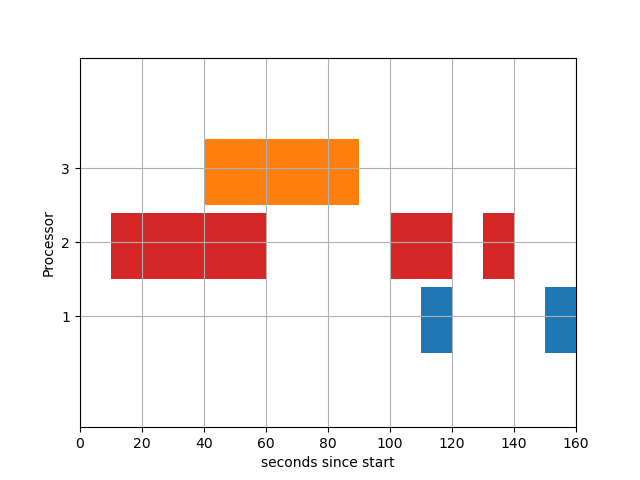
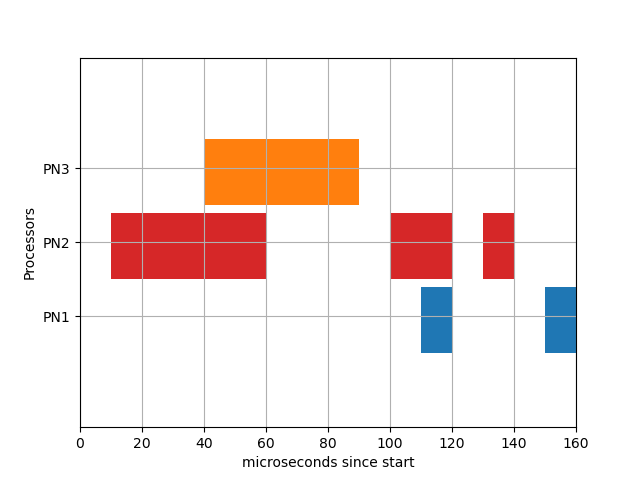
Add almost basic sample run

diff --git a/main.py b/main.py
@@ -1,34 +1,46 @@
 import sys
+import statistics
+from src.Processor import Processor
+from src.Task import Task
 import src.Visualization
 from time import process_time_ns
+from src.playground import playground
 from src.Graph import Graph
-#import src.playground as pg
-from src.IO import read_data, write_data
+from src.IO import read_data, write_data, listOfProcessors
 
-def calculateTime(begin, end):
+
+def calculate_time(begin, end):
   elapsed = end - begin
-  time_milliseconds = (elapsed) * 0.001
+  time_milliseconds = int((elapsed) * 0.001)
   time_microseconds = (elapsed) 
   print(f"time: { time_milliseconds }ms - milliseconds | { time_microseconds }μs - microseconds")
   return (time_microseconds, time_microseconds)
 
-def schedule_task(task):
-  pass
+def calculate_standard_deviation(ListOfProcessors, makespan):
+  listOfProcExeTime: list[Processor] = [proc.exeTime/makespan for proc in ListOfProcessors]
+  return statistics.pstdev(listOfProcExeTime)
+  
+def schedule_task(task: Task):
+  global listOfProcessors
+  print(task)
 
-def schedule_graph(graph):
-  pass
+def schedule_graph(dag: Graph):
+  topologicalOrder = dag.topological_sort()
+  for taskID in topologicalOrder:
+    schedule_task(dag.taskList[taskID])
 
 def scheduler(listOfDags: list[Graph]):
-  pass
+  for dag in listOfDags:
+    schedule_graph(dag)
 
 def run():
   listOfDags: list[Graph] = read_data("./src/sample.json") # returns a list of graphs
-  print(listOfDags)
   begin = process_time_ns()
   scheduler(listOfDags)
   end = process_time_ns()
-  time_results = calculateTime(begin, end) # returns a tuple of time results as (microseconds, nanoseconds)
+  time_results = calculate_time(begin, end) # returns a tuple of time results as (microseconds, nanoseconds)
   write_data("./src/output/sample.csv", [], 0, 0, 0, time_results[0])
   
 if __name__ == "__main__":
+  #playground()
   run()

diff --git a/src/playground.py b/src/playground.py
@@ -1,25 +1,26 @@
 from .Graph import Graph
 import random
 
-graph = Graph()
-n = 5
+def playground():
+  graph = Graph(0,0,0,0)
+  n = 5
 
-# init nodes
-for i in range(n):
-  graph.add_node(i)
+  # init nodes
+  for i in range(n):
+    graph.add_node(i)
 
-# init random dependencies
-for i in graph:
-  for i in range(random.randint(0, random.choice(range(n)))):
-    # populate (and make sure it isnt cyclic)
-    new_dep = random.choice(list(graph.keys()))
-    graph.add_edge(i, new_dep)
-    while graph.cyclic():
-      graph.delete_edge(i, new_dep)
+  # init random dependencies
+  for i in graph:
+    for i in range(random.randint(0, random.choice(range(n)))):
+      # populate (and make sure it isnt cyclic)
       new_dep = random.choice(list(graph.keys()))
-      graph.add_edge(i, new_dep)
+      graph.add_edge(i, new_dep, 0)
+      while graph.cyclic():
+        graph.delete_edge(i, new_dep)
+        new_dep = random.choice(list(graph.keys()))
+        graph.add_edge(i, new_dep)
 
-print(graph)
-# print(graph.cyclic())
-print(graph.topological_sort())
-    
+  print(graph)
+  # print(graph.cyclic())
+  print(graph.topological_sort())
+      

diff --git a/src/IO.py b/src/IO.py
@@ -1,8 +1,29 @@
 import json
 from src.Graph import Graph
+from src.Processor import Processor
 from src.Task import Task
 import csv
+import os
 
+listOfProcessors: list[Processor] = []
+
+def init_processors(filename):
+  global numberOfProcessers
+  global listOfProcessors
+  testID = 0
+  testCaseNum = filename.split(os.sep)[-1].split('.')[0][4:]
+  if testCaseNum.isdigit():
+      testID = int(testCaseNum)
+  else:
+      testID = None
+  if not testID:
+      NUM_PROCESSORS = 3
+  elif testID < 5:
+      NUM_PROCESSORS = 8
+  else:
+      NUM_PROCESSORS = 6
+  listOfProcessors.extend([Processor() for proc in range(NUM_PROCESSORS)])
+    
 def read_file(filename):
   with open(filename) as f:
     file = json.load(f)
@@ -11,6 +32,7 @@ def read_file(filename):
   
 def read_data(filename) -> list[Graph]:
   """ Reads in a file and populates a list with graph data structures. """
+  init_processors(filename)
   graphList: list[Graph] = []
   data = read_file(filename)
   for dagID, dagData in data.items():

diff --git a/src/Graph.py b/src/Graph.py
@@ -63,8 +63,9 @@ class Graph(dict):
     for u in self:
       in_degree[u] = 0
     for u in self:
+      
       for v in self[u]:
-        in_degree[v] += 1
+        in_degree[v[0]] += 1
     queue = deque()
     for u in in_degree:
       if in_degree[u] == 0:
@@ -74,9 +75,9 @@ class Graph(dict):
       u = queue.pop()
       l.append(u)
       for v in self[u]:
-        in_degree[v] -= 1
-        if in_degree[v] == 0:
-          queue.appendleft(v)
+        in_degree[v[0]] -= 1
+        if in_degree[v[0]] == 0:
+          queue.appendleft(v[0])
     if len(l) == len(self):
       return l
     else:

diff --git a/src/Visualization.py b/src/Visualization.py
@@ -9,12 +9,12 @@ def create_task_gant():
   # Setting X-axis limits
   gnt.set_xlim(0, 160)
   # Setting labels for x-axis and y-axis
-  gnt.set_xlabel('seconds since start')
-  gnt.set_ylabel('Processor')
+  gnt.set_xlabel('microseconds since start')
+  gnt.set_ylabel('Processors')
   # Setting ticks on y-axis
   gnt.set_yticks([15, 25, 35])
   # Labelling tickes of y-axis
-  gnt.set_yticklabels(['1', '2', '3'])
+  gnt.set_yticklabels(['PN1', 'PN2', 'PN3'])
   # Setting graph attribute
   gnt.grid(True)
   # Declaring a bar in schedule
